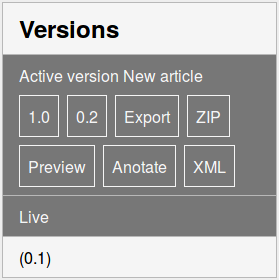
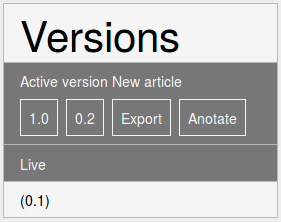
ajout biblio, metadata et nv modal versions

Changed region(s): [[0.0, 0.0, 1.0, 1.0]]

diff --git a/fr_FR/pages/premierspas.md b/fr_FR/pages/premierspas.md
@@ -6,9 +6,7 @@ Un article dans Stylo est composé par trois éléments distincts :
   - des métadonnées
   - une bibliographie
 
-## Page d'accueil
-
-### Liste des articles
+## Liste des articles
 
 La page d'accueil liste vos articles et ceux qui ont été partagés avec vous.
 
@@ -34,7 +32,7 @@ Attention: Supprimer un article est irréversible.
 | ![new](uploads/images/new.png) | pour créer une nouvelle version de l'article en édition |
 | ![fork](uploads/images/fork.png) | pour créer un nouvel article clone à partir de cette version |
 
-### [share] [fork] [send] ?
+## [share] [fork] [send] ?
 
 La fonction **[share]** permet d'inviter des co-auteurs à travailler sur le même article. Ils ont alors accès à tout l'historique. Les versions de l'article se synchronisent pour tous les utilisateurs au-fur-et à mesure des modifications.
 
@@ -42,13 +40,13 @@ La fonction **[fork]** est utile pour créer, à partir de la dernière version,
 
 La fonction **[send]** fait la même opération, mais le nouvel article est directement envoyé à un autre usager. Dans ce cas, le nouvel article n'est pas ajouté à la liste de vos articles. On l'utilise par exemple pour soumettre un article à un éditeur pour révision. Après révision, l'éditeur pourra soit "partager" **[share]** l'article révisé, donnant accès à l'auteur aux annotations des évaluateurs, soit "envoyer" **[send]** l'article pour ne lui donner accès qu'à la version modifiée sans le suivi des annotations.
 
-### Nouvel article
+## Nouvel article
 
 Pour créer un nouvel article, il suffit de cliquer su lre bouton, ![Nouvel article](uploads/images/nouvelarticle.png)
 
 puis de rentrer un nom d'article dans le champs ouvert ![nommer un article](uploads/images/createnew.png)
 
-## Page d'édition
+## Édition
 
 L'environnement d'édition est composé de 5 modules :
 
@@ -60,7 +58,7 @@ L'environnement d'édition est composé de 5 modules :
   - la Bibliographie liste les références bibliographiques
   - les Statistiques offrent quelques données quantitatives sur l'article
 
-### Versions
+## - Versions
 
 Le module Versions contient :
 ![versions](uploads/images/versions.png)
@@ -87,12 +85,28 @@ Pour la version active, plusieurs fonctions sont disponibles :
 |![anotate](uploads/images/anotate.png) | pour ouvrir la version html annotable  |
 |![xml](uploads/images/xml.png) | pour prévisualiser une version xml  |
 
-### Sommaire
+## - Sommaire
 
 Le sommaire affiche une liste des titres de niveau 1, 2 et 3. Ces titres sont clicables pour accéder rapidement à une partie du texte. ![sommaire](uploads/images/sommaire.png)
 
-### Bibliographie
+## - Bibliographie
 
-### Statistiques
+La bibliographie liste les références bibliographiques que vous avez ajoutées. Les références bibliographiques peuvent être ajoutées une par une, ou groupées.
 
-### Métadonnées
+
+Les références doivent être ajoutées au format bibtex. Vous pouvez directement [structurer vos références en bibtex](http://www.andy-roberts.net/writing/latex/bibliographies), ou exporter vos références en bibtex grâce à votre outils de gestion de bibliographie :
+
+- voir tutoriels : <a class="btn btn-info" href="http://sens-public.org/IMG/pdf/Utiliser_Zotero.pdf" role="button">Zotero</a> <a class="btn btn-info" href="https://libguides.usask.ca/c.php?g=218034&p=1446316" role="button">Mendeley</a>
+
+
+Pour ajouter une référence à l'article, il suffit de cliquer sur la référence, puis de coller la référence dans le texte à l'endroit souhaité. Ainsi, un clic revient à "copier" la clé de la référence dans le presse-papier. Il ne reste plus qu'à la coller dans le corps de texte. ![biblioex](uploads/images/biblioex.png)
+
+
+## - Métadonnées
+
+Le bouton [Metadata] permet d'ouvrir le volet de métadonnées. Deux modes d'édition sont disponibles : ![metadata](uploads/images/metadata.png)
+
+1. **Mode auteur (simple)** - permet d'éditer les métadonnées fondamentales: Titre, sous-titre, résumés, auteurs et mots-clés.
+2. **Mode éditeur (avancé)** - permet d'éditer l'ensemble des métadonnées relatives à une revue savante : identifiant d'un article, informations de dossier, information d'évaluation, catégories de la revue, mots-clés de la revue, etc.
+
+## - Statistiques
